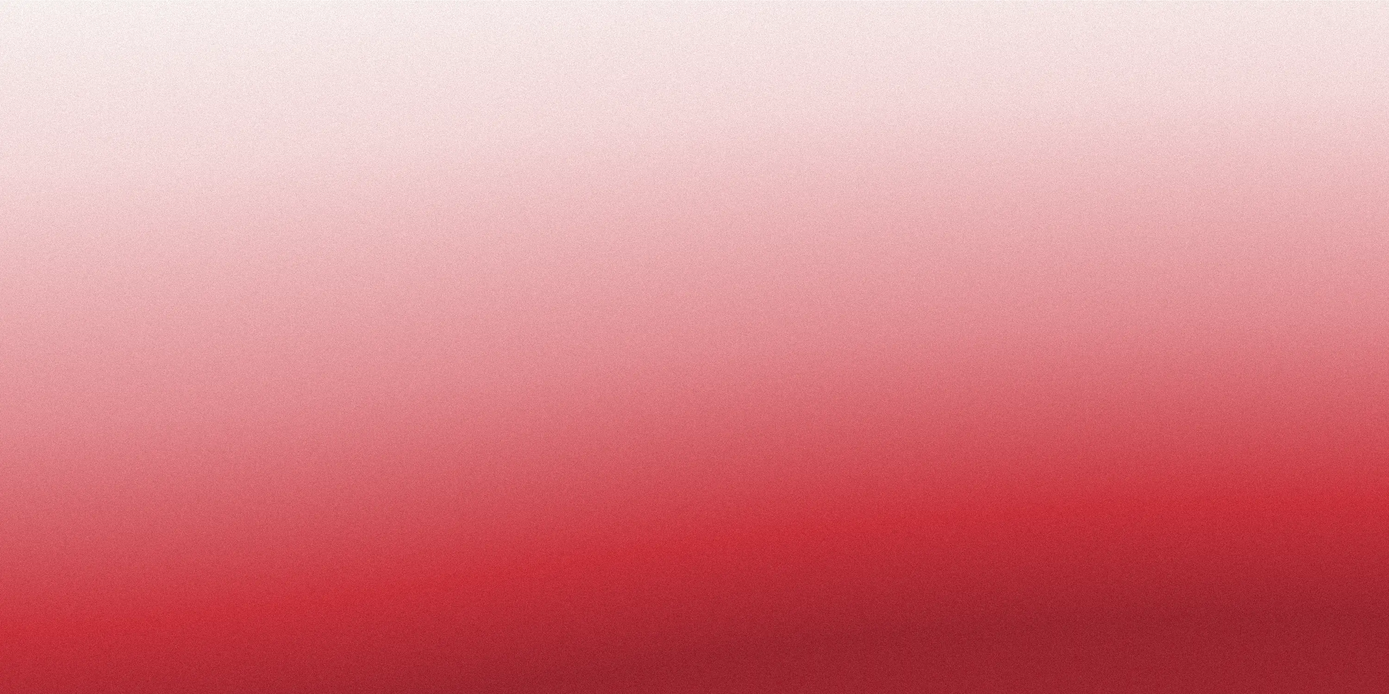
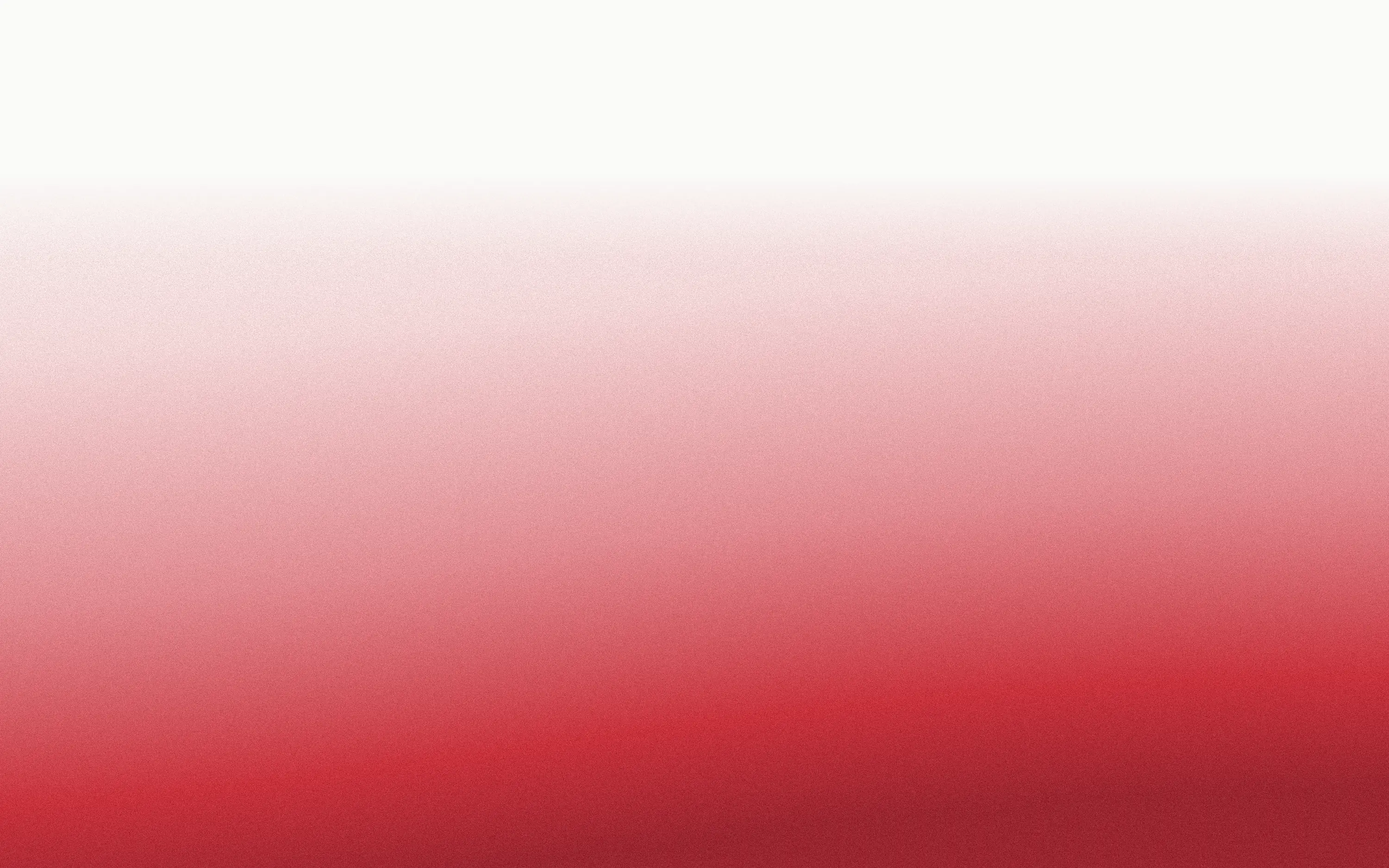
chore(texturas): sin costura — papel puro arriba, grano y campo entran con la rampa (v2.1)
QA de Fabrizio: se veía una línea horizontal donde empezaba la banda, en PC y
mobile. Dos causas en la imagen: el grano cubría también el tramo de papel (que
tiene que empalmar con el fondo #FAFAF8 liso, el grano de página lo pone el CSS)
y el campo orgánico entraba de golpe donde la rampa arrancaba (escalón de hasta
0,18). Ahora el tramo superior es #FAFAF8 puro, y grano y campo suben a pleno en
el primer 12 % de la rampa. Las imágenes miden 1,25 × (ROJO/0,6): el 20 %
superior queda de papel para que la máscara CSS del borde caiga entera sobre
papel. Medido: salto máximo entre filas consecutivas ≤2,3/255.

diff --git a/tools/texturas/generar.py b/tools/texturas/generar.py
@@ -5,18 +5,20 @@ Receta aprobada 06-sep-2026 (chat landing): composición F3i-b, paleta T1, grano
 Regla de composición v2 (QA de Fabrizio, 07-sep-2026): el rojo ocupa una ALTURA FIJA
 medida desde abajo (`rojo`, en px de la imagen), no una proporción del lienzo. Sobre el
 bloque rojo la rampa sigue hasta papel en 1,67 × rojo (0,6 = rojo pleno); lo que quede
-más arriba es papel liso, que es el fondo de la página, así la imagen se puede recortar
-por arriba sin costura. En CSS la banda se sirve con altura fija en vh y `object-fit:
-cover` anclado abajo: hero 50 svh (rojo = 30 vh), cierre 83 svh (rojo = 50 vh).
+más arriba es papel liso #FAFAF8 puro y SIN grano (v2.1), que es el fondo de la página, así la
+imagen se puede recortar por arriba sin costura; el CSS además la enmascara en el borde superior. En CSS la banda se sirve con altura fija en vh y `object-fit:
+cover` anclado abajo: hero 62,5 svh (rojo = 30 vh), cierre 104 svh (rojo = 50 vh), con un 20 % de papel puro arriba.
 
 Uso:
   python tools/texturas/generar.py banda ANCHO ALTO ROJO salida.webp
-  # set de la landing (2x/3x, servido por <picture> + srcset, nada se estira):
-  python tools/texturas/generar.py banda 1200 1000  600 public/landing/textura-hero-m2x.webp
-  python tools/texturas/generar.py banda 1800 1500  900 public/landing/textura-hero-m3x.webp
-  python tools/texturas/generar.py banda 3000 1000  600 public/landing/textura-hero-d2x.webp   # cubre 50 svh hasta 1000 px de alto
-  python tools/texturas/generar.py banda 1200 1500  900 public/landing/textura-cierre-m2x.webp
-  python tools/texturas/generar.py banda 3000 1500  900 public/landing/textura-cierre-d2x.webp
+  # set de la landing (2x/3x, servido por <picture> + srcset, nada se estira). El alto es
+  # 1,25 × (ROJO / 0,6): el 20 % superior queda de papel puro, que es lo que la máscara CSS
+  # del borde (18 %) funde con el fondo. En CSS la banda mide 62,5 svh (hero) y 104 svh (cierre).
+  python tools/texturas/generar.py banda 1200 1250  600 public/landing/textura-hero-m2x.webp
+  python tools/texturas/generar.py banda 1800 1875  900 public/landing/textura-hero-m3x.webp
+  python tools/texturas/generar.py banda 3000 1250  600 public/landing/textura-hero-d2x.webp
+  python tools/texturas/generar.py banda 1200 1875  900 public/landing/textura-cierre-m2x.webp
+  python tools/texturas/generar.py banda 3000 1875  900 public/landing/textura-cierre-d2x.webp
   python tools/texturas/generar.py banda 1200  630  190 public/landing/og-hero.jpg   # OG (JPEG: Satori no lee WebP)
   # receta v1 (proporción del lienzo), por si hace falta reproducirla:
   python tools/texturas/generar.py hero 1440 1600 salida.webp · cierre 1440 1000 salida.webp
@@ -75,12 +77,20 @@ def render(kind, w, h, out, seed=7, rojo=None):
     bias_fn = bias_banda(h, rojo) if kind == 'banda' else COMPOSICION[kind]
     f = field(w, h, seed)
     yy, xx = np.mgrid[0:h, 0:w]
-    v = np.clip(f * FIELD_W + bias_fn(xx / w, yy / h) * (1 - FIELD_W * 0.4), 0, 1)
+    b = bias_fn(xx / w, yy / h)
     if kind == 'banda':
-        # el campo orgánico no debe manchar el papel liso de arriba: se apaga con la rampa
-        v = np.where(bias_fn(xx / w, yy / h) > 0, v, 0)
+        # el campo orgánico entra CON la rampa (pleno en su primer 12 %): si entrara de
+        # golpe donde bias > 0 dejaría un escalón de hasta 0,18 justo en el borde del
+        # papel, que es la costura que se veía (QA 07-sep).
+        f = f * np.clip(b / 0.12, 0, 1)
+    v = np.clip(f * FIELD_W + b * (1 - FIELD_W * 0.4), 0, 1)
     rgb = colormap(v)
     g = np.random.default_rng(seed).normal(0, 1, (h, w))
+    if kind == 'banda':
+        # v2.1 (costura, QA 07-sep): el tramo superior es #FAFAF8 PURO, sin grano — el
+        # grano de página lo pone la capa CSS y el empalme con el fondo tiene que ser
+        # invisible. El grano entra con la rampa (sube a pleno en el primer 12 % de ella).
+        g = g * np.clip(b / 0.12, 0, 1)
     rgb = rgb + (g[:, :, None] * GRAIN * 255)
     img = Image.fromarray(np.clip(rgb, 0, 255).astype('uint8'))
     if out.lower().endswith(('.jpg', '.jpeg')):
